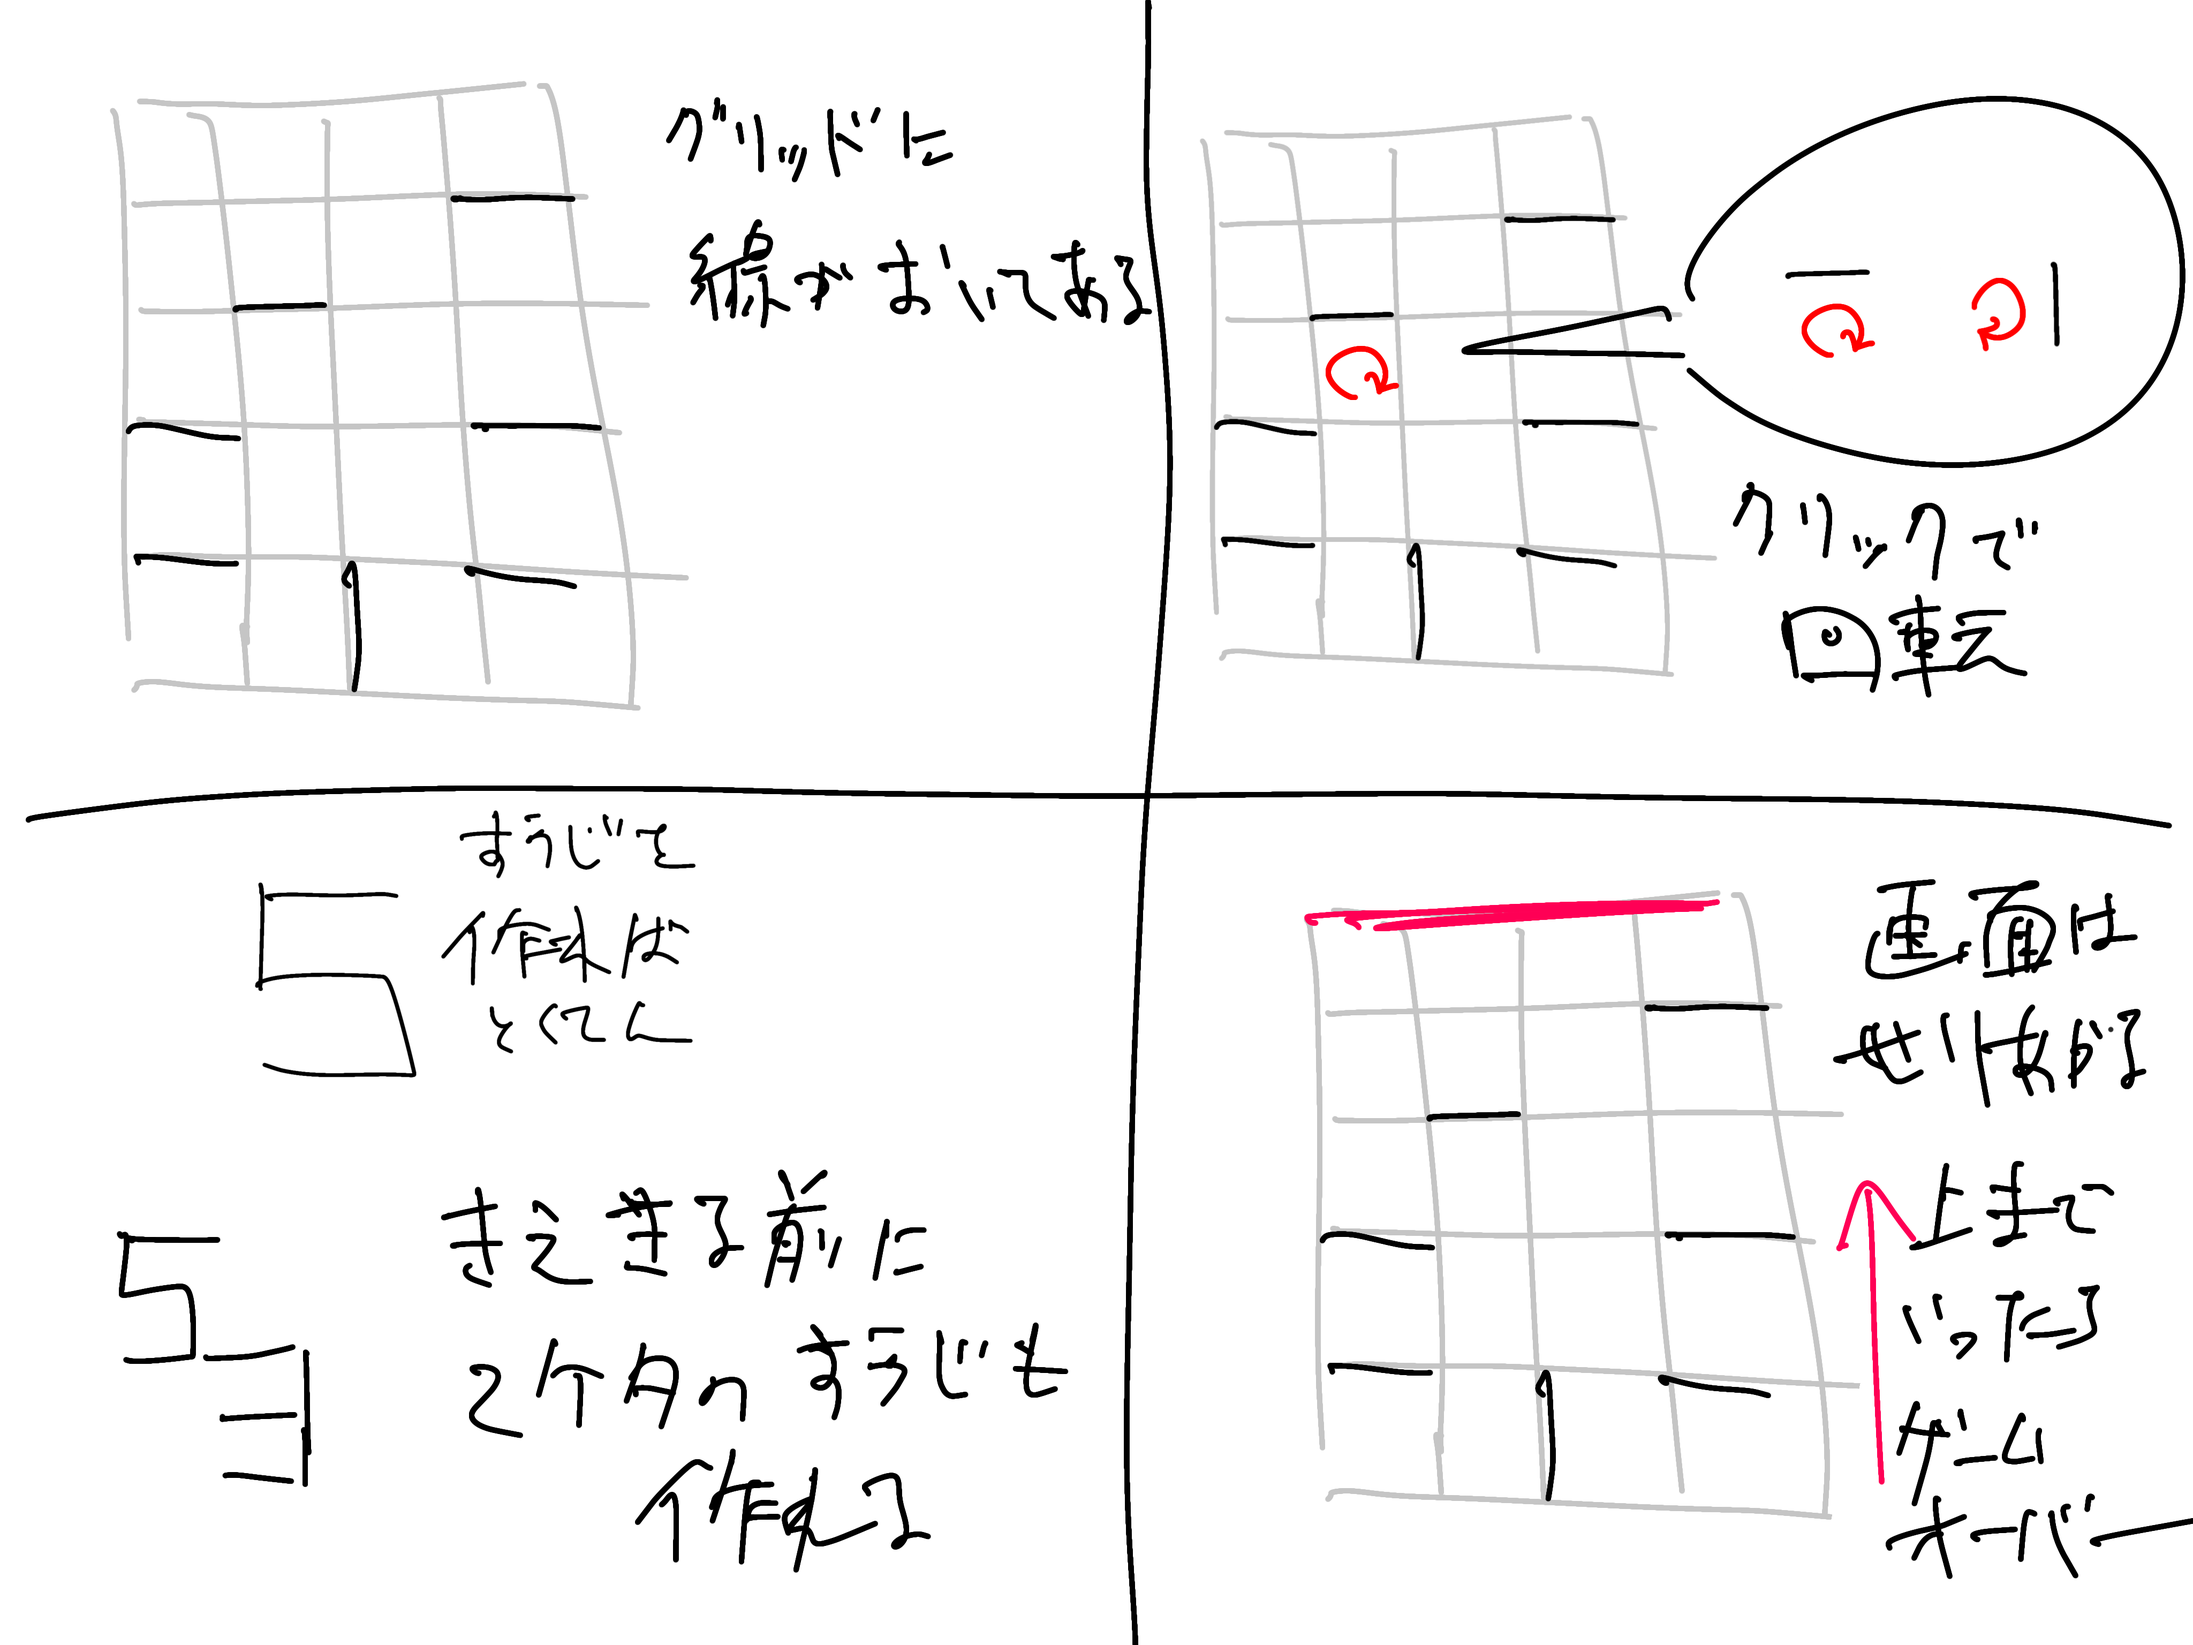
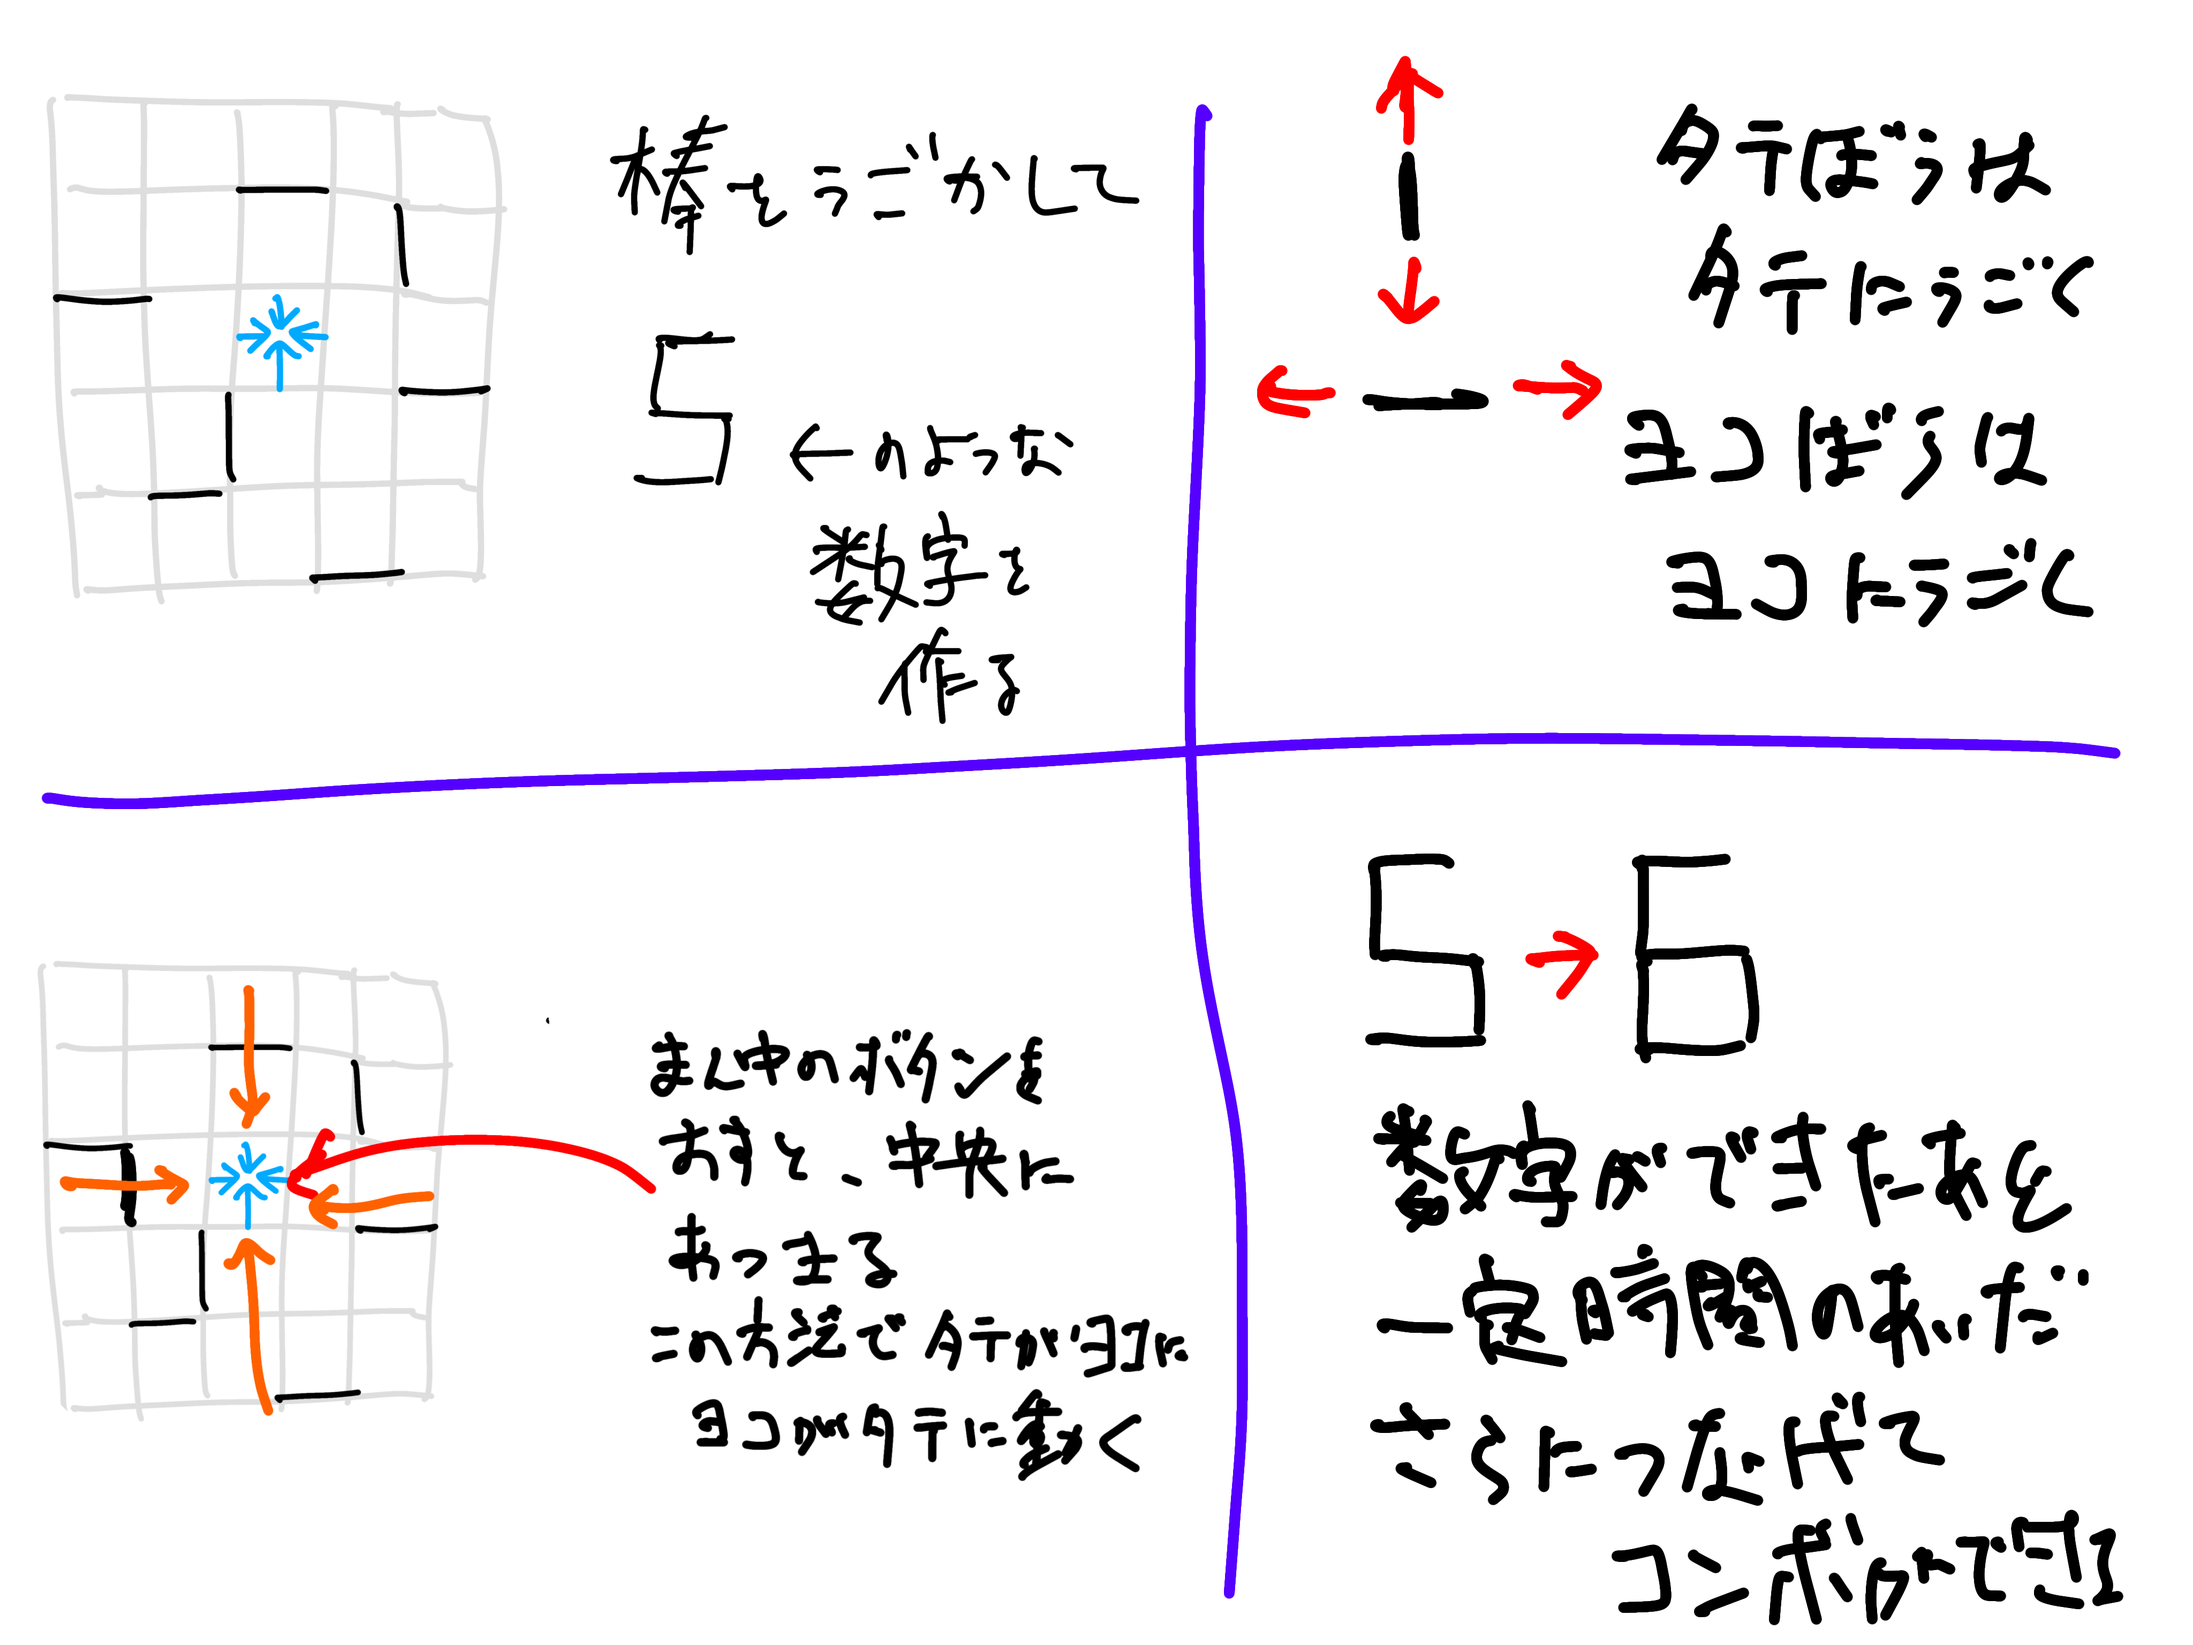
ルール改正

diff --git a/README.md b/README.md
@@ -3,3 +3,9 @@
 こういうの作りたい
 
 ![](./memo.png)
+
+* 縦棒は縦方向、横棒は横方向にしか移動できない
+* 真ん中にボタンがある。これを押すと上下左右の棒が1マスずつ中央に集まる
+* 数字を作るとその棒は固定され、猶予期間に入る
+* 猶予期間中も新たな数字を繋げられる
+* コンボは回数の2条倍の点数が入る
